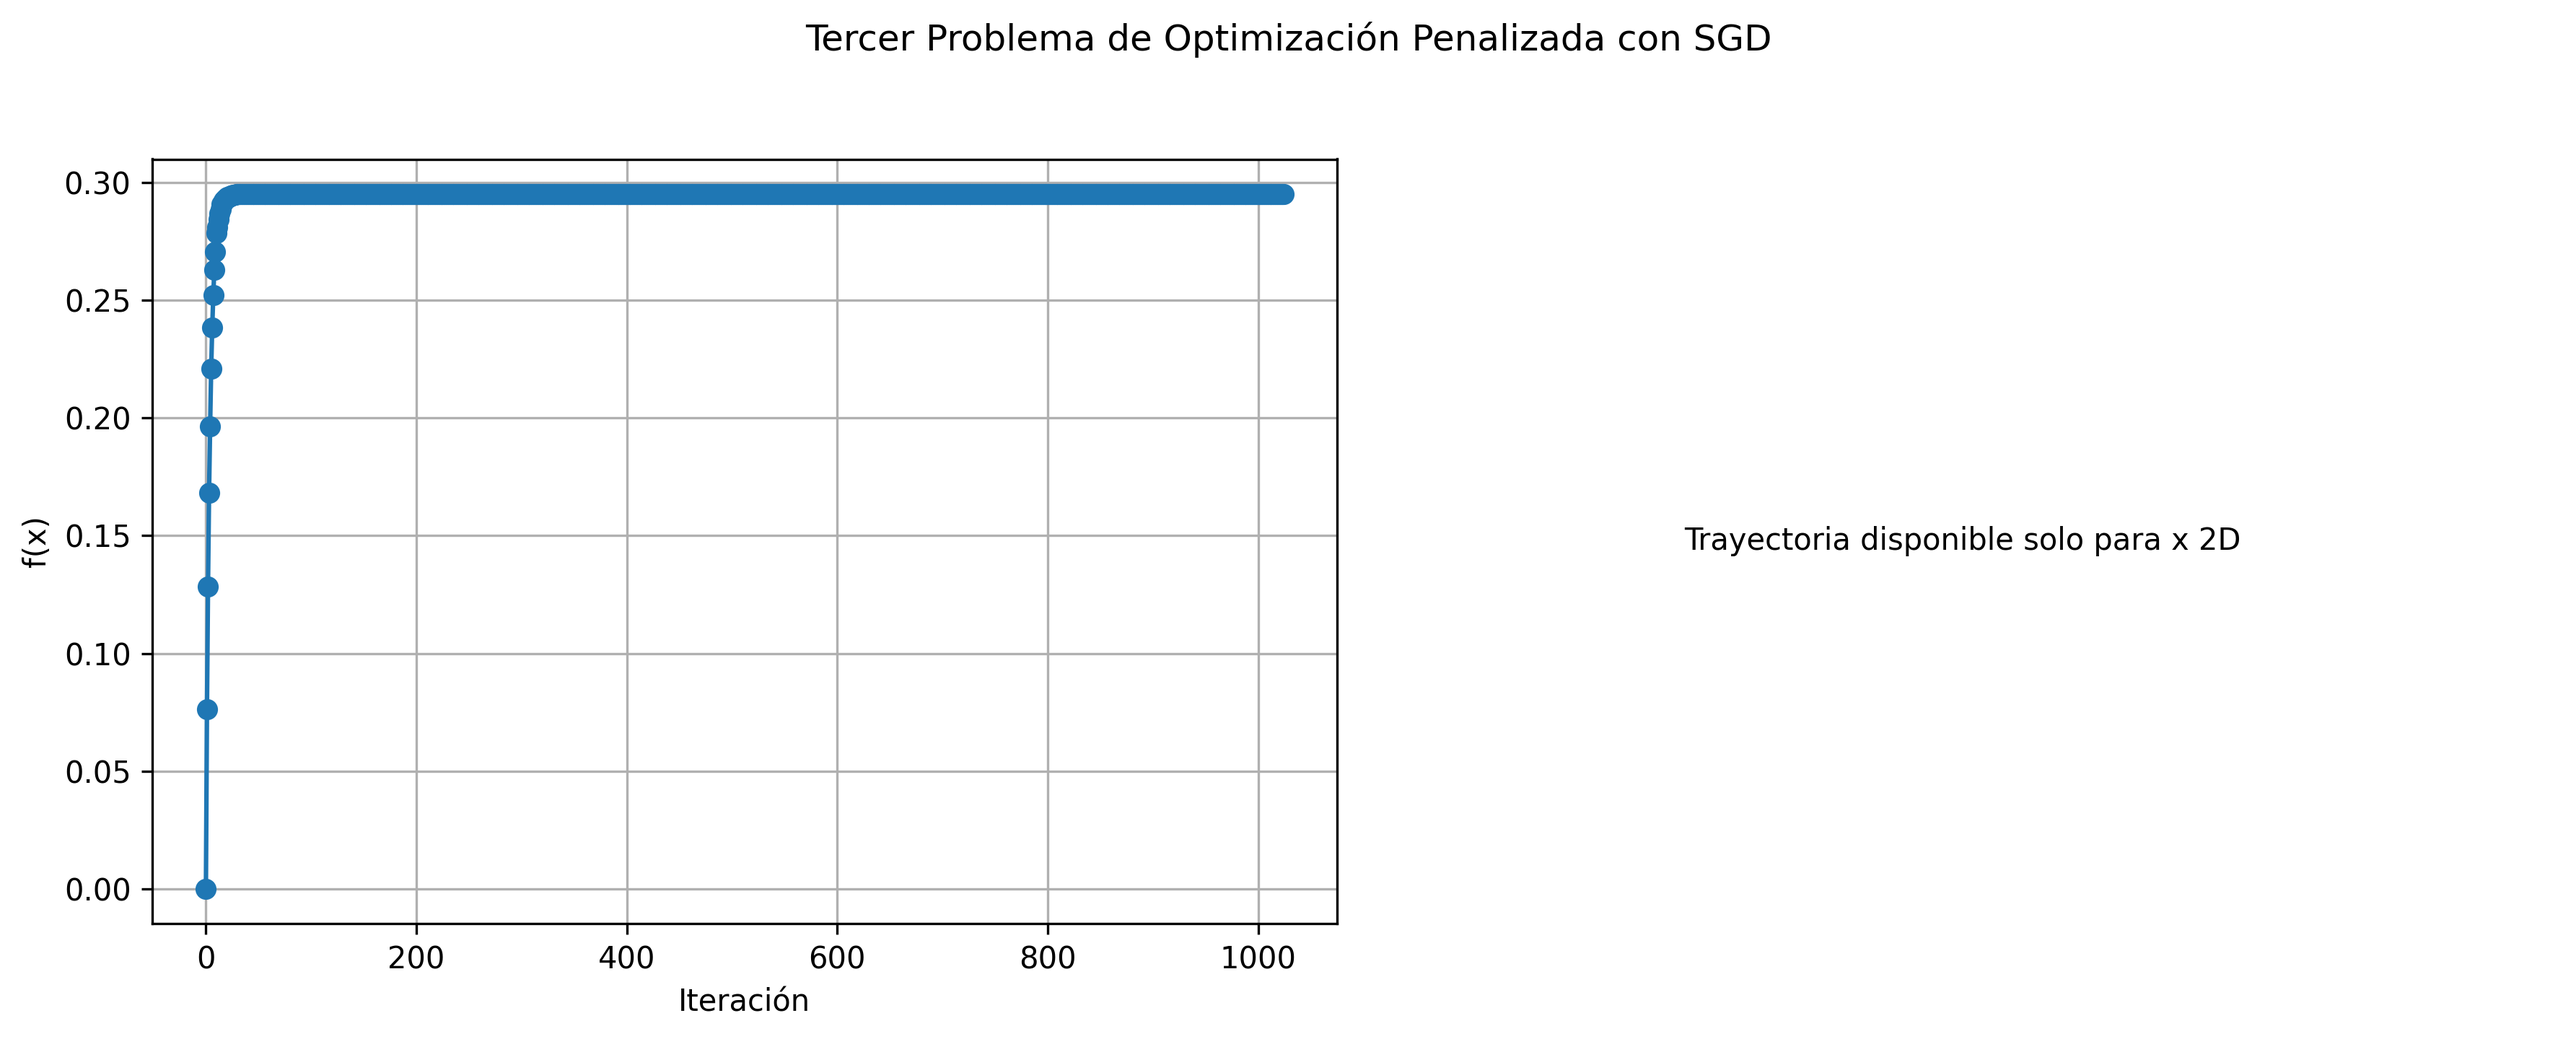
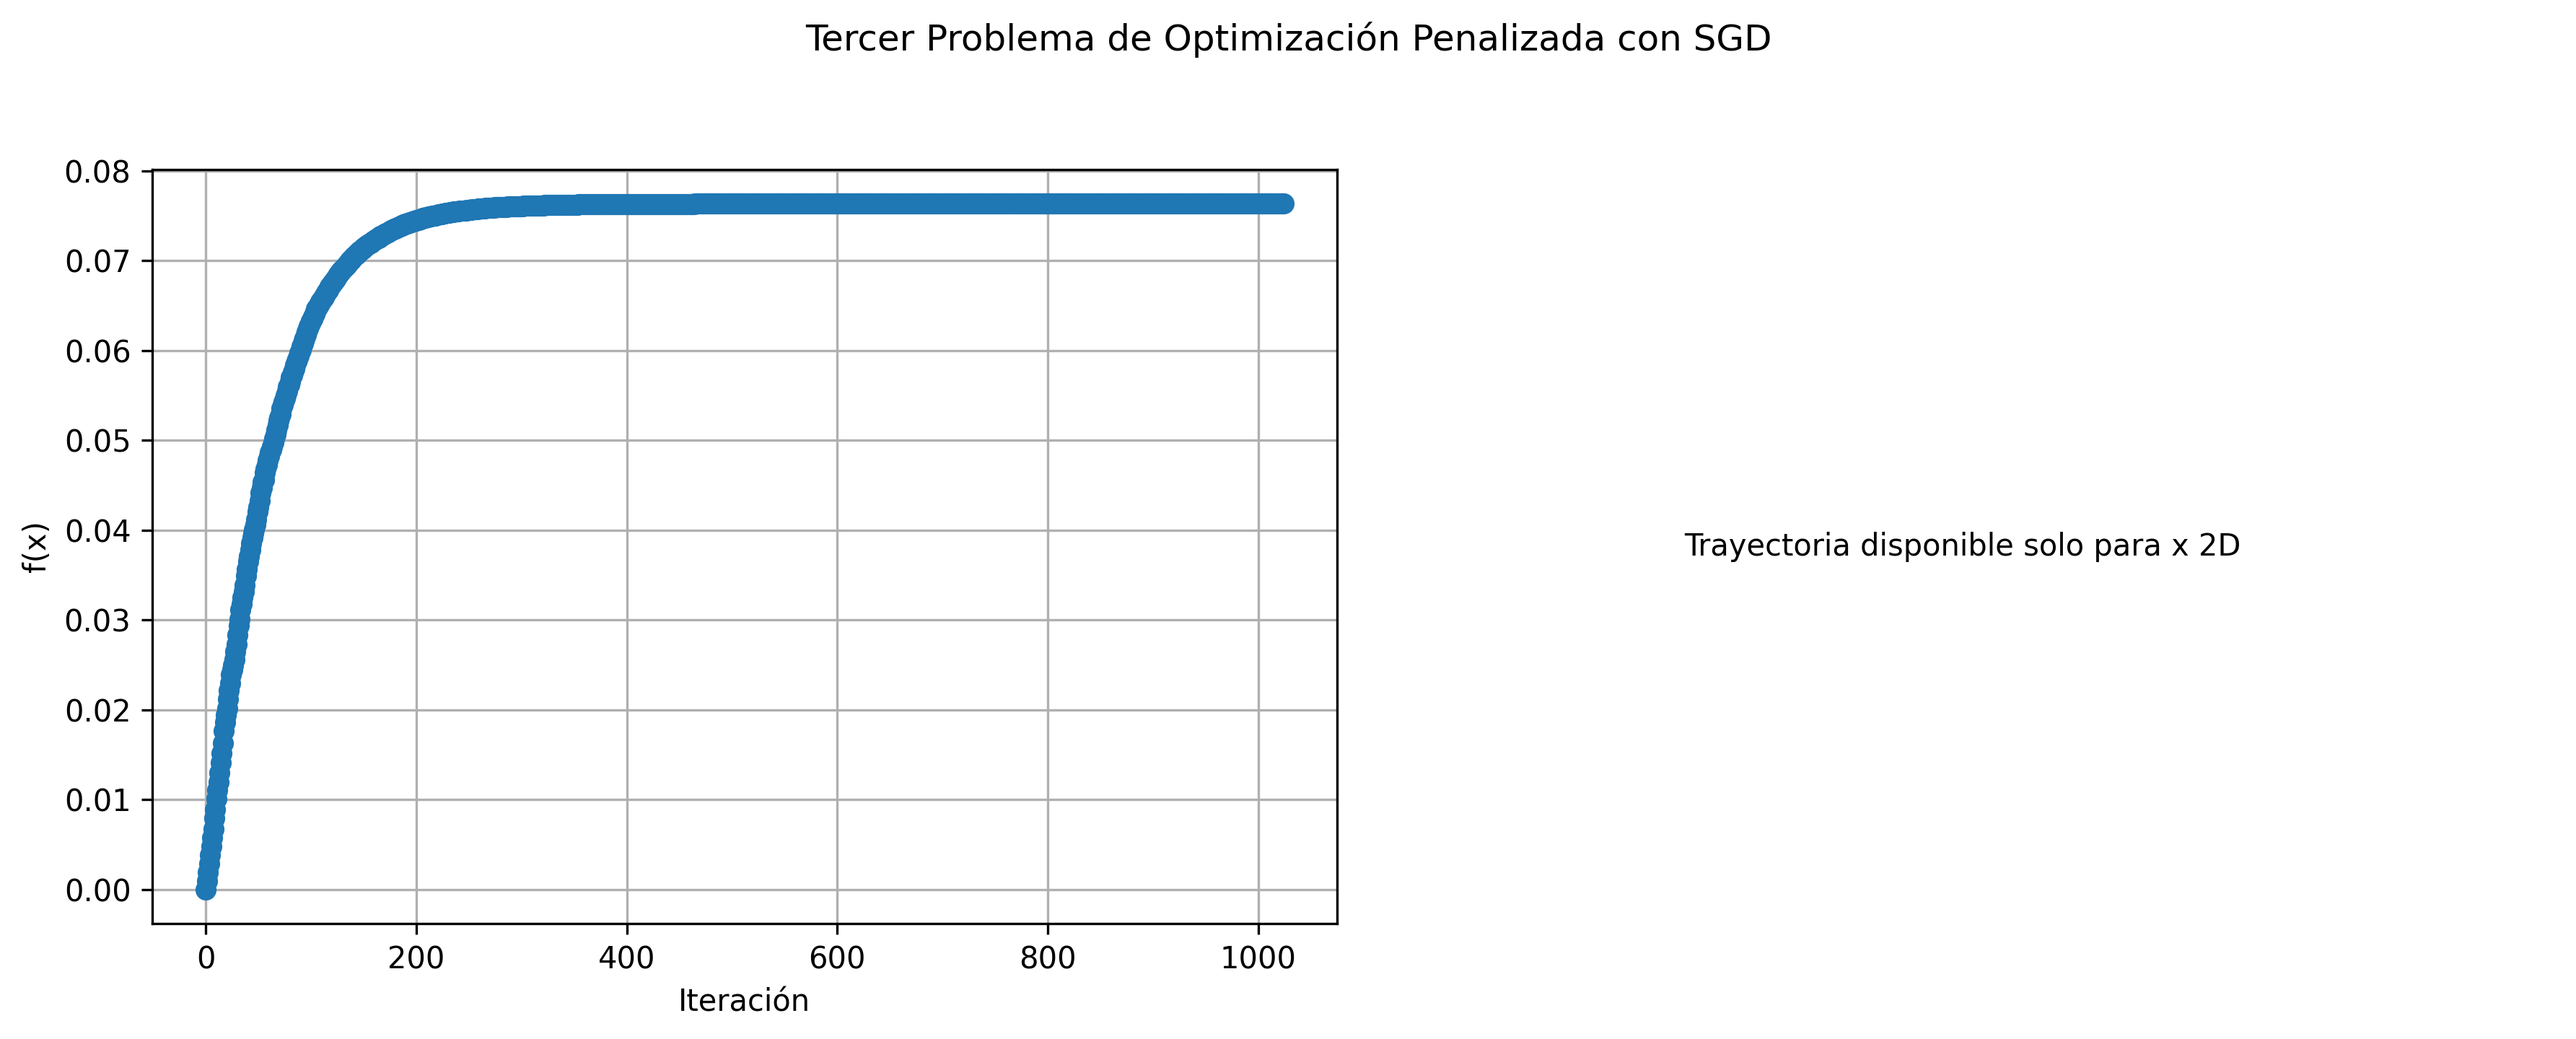
up

Changed region(s): [[0.0, 0.125, 0.5286, 0.8438], [0.6529, 0.5, 0.8706, 0.5312]]

diff --git a/fescent/C3.py b/fescent/C3.py
@@ -280,6 +280,8 @@ b = np.zeros([n + 1])
 E = np.ones((1, n))
 e = np.array([n + 1])
 
+alpha_solver = 1e-4
+
 x_list, f_list, iterations = penaliced_optimization(
     f, A, b, E, e, x0, mu0, eps, beta, optimize_sgd, alpha_solver
 )
